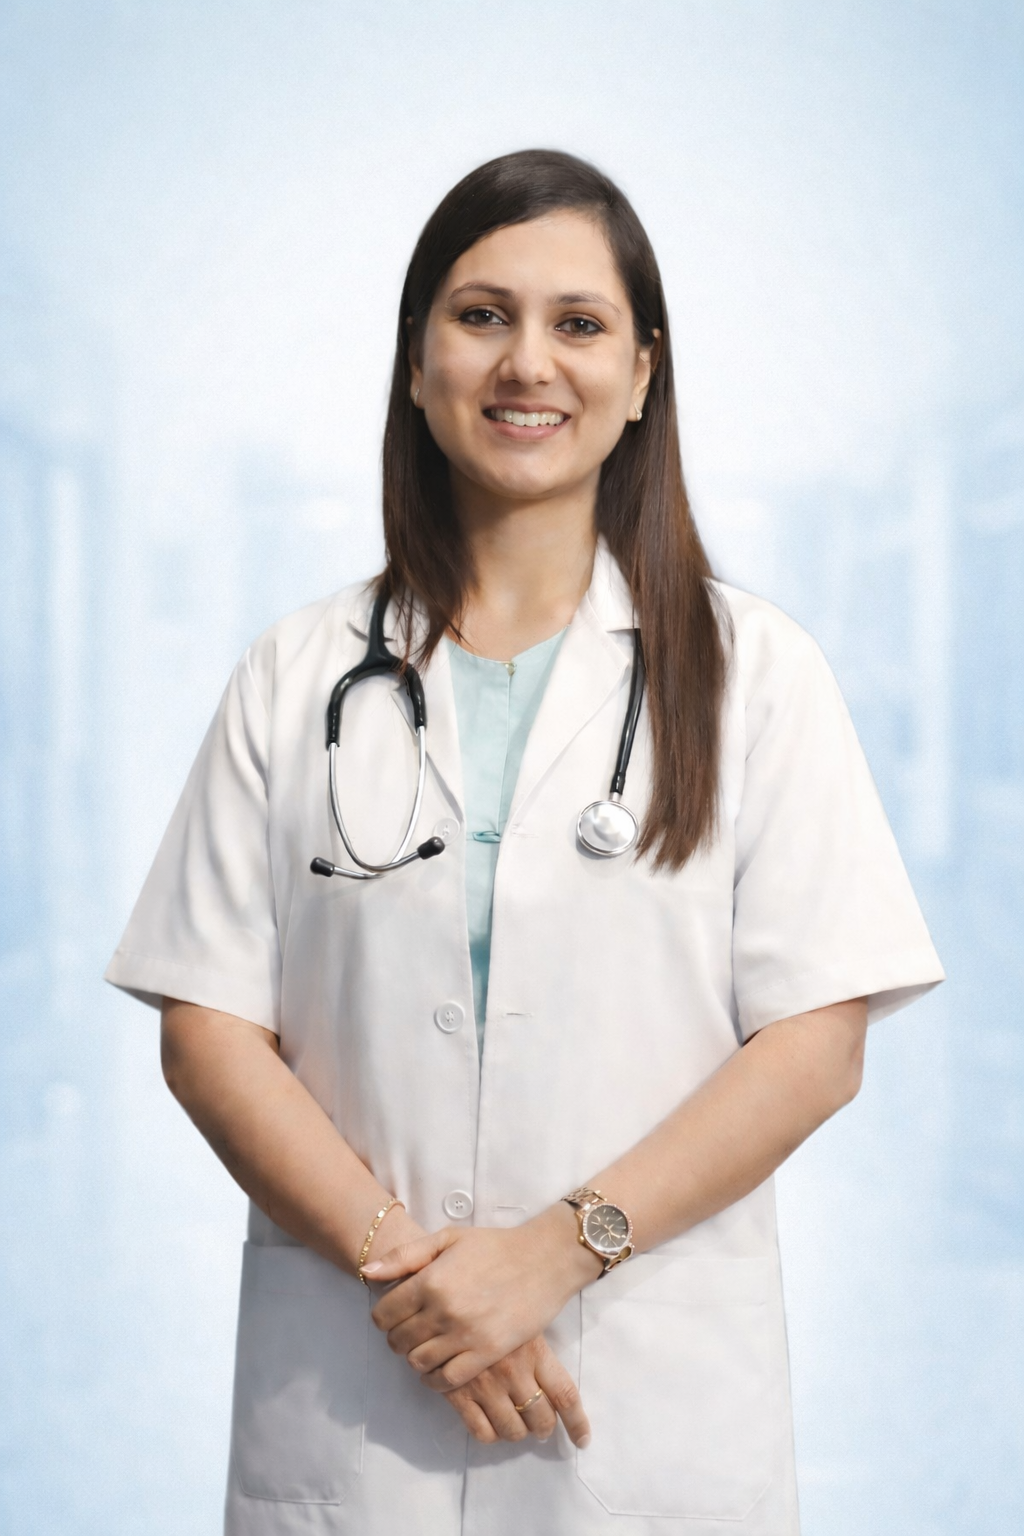
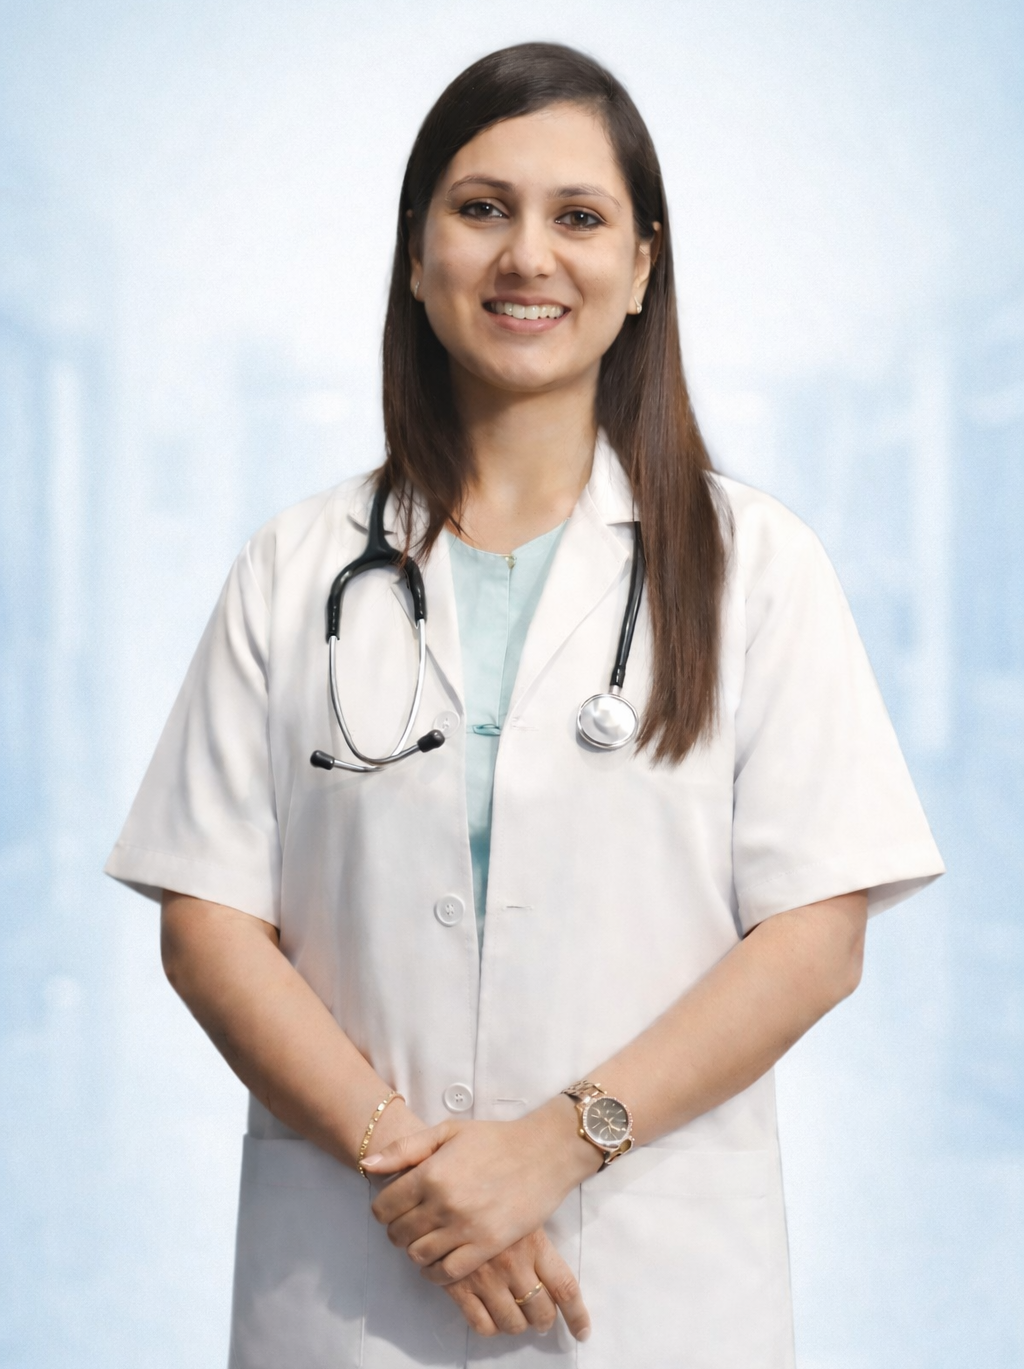
Changed and modified the doctor's image on both home and about page.

diff --git a/app/about/page.js b/app/about/page.js
@@ -24,7 +24,7 @@ export default function AboutDoctorPage() {
             
             <div className="relative rounded-2xl overflow-hidden shadow-lg bg-gray-100 aspect-2/3">
               <Image
-                src="/drpicn.png" 
+                src="/drpic.png" 
                 alt="Dr. Pragati Barot - Gynecologist at Eva Maternity Care"
                 fill
                 className="object-cover object-top hover:scale-105 transition-transform duration-700"
